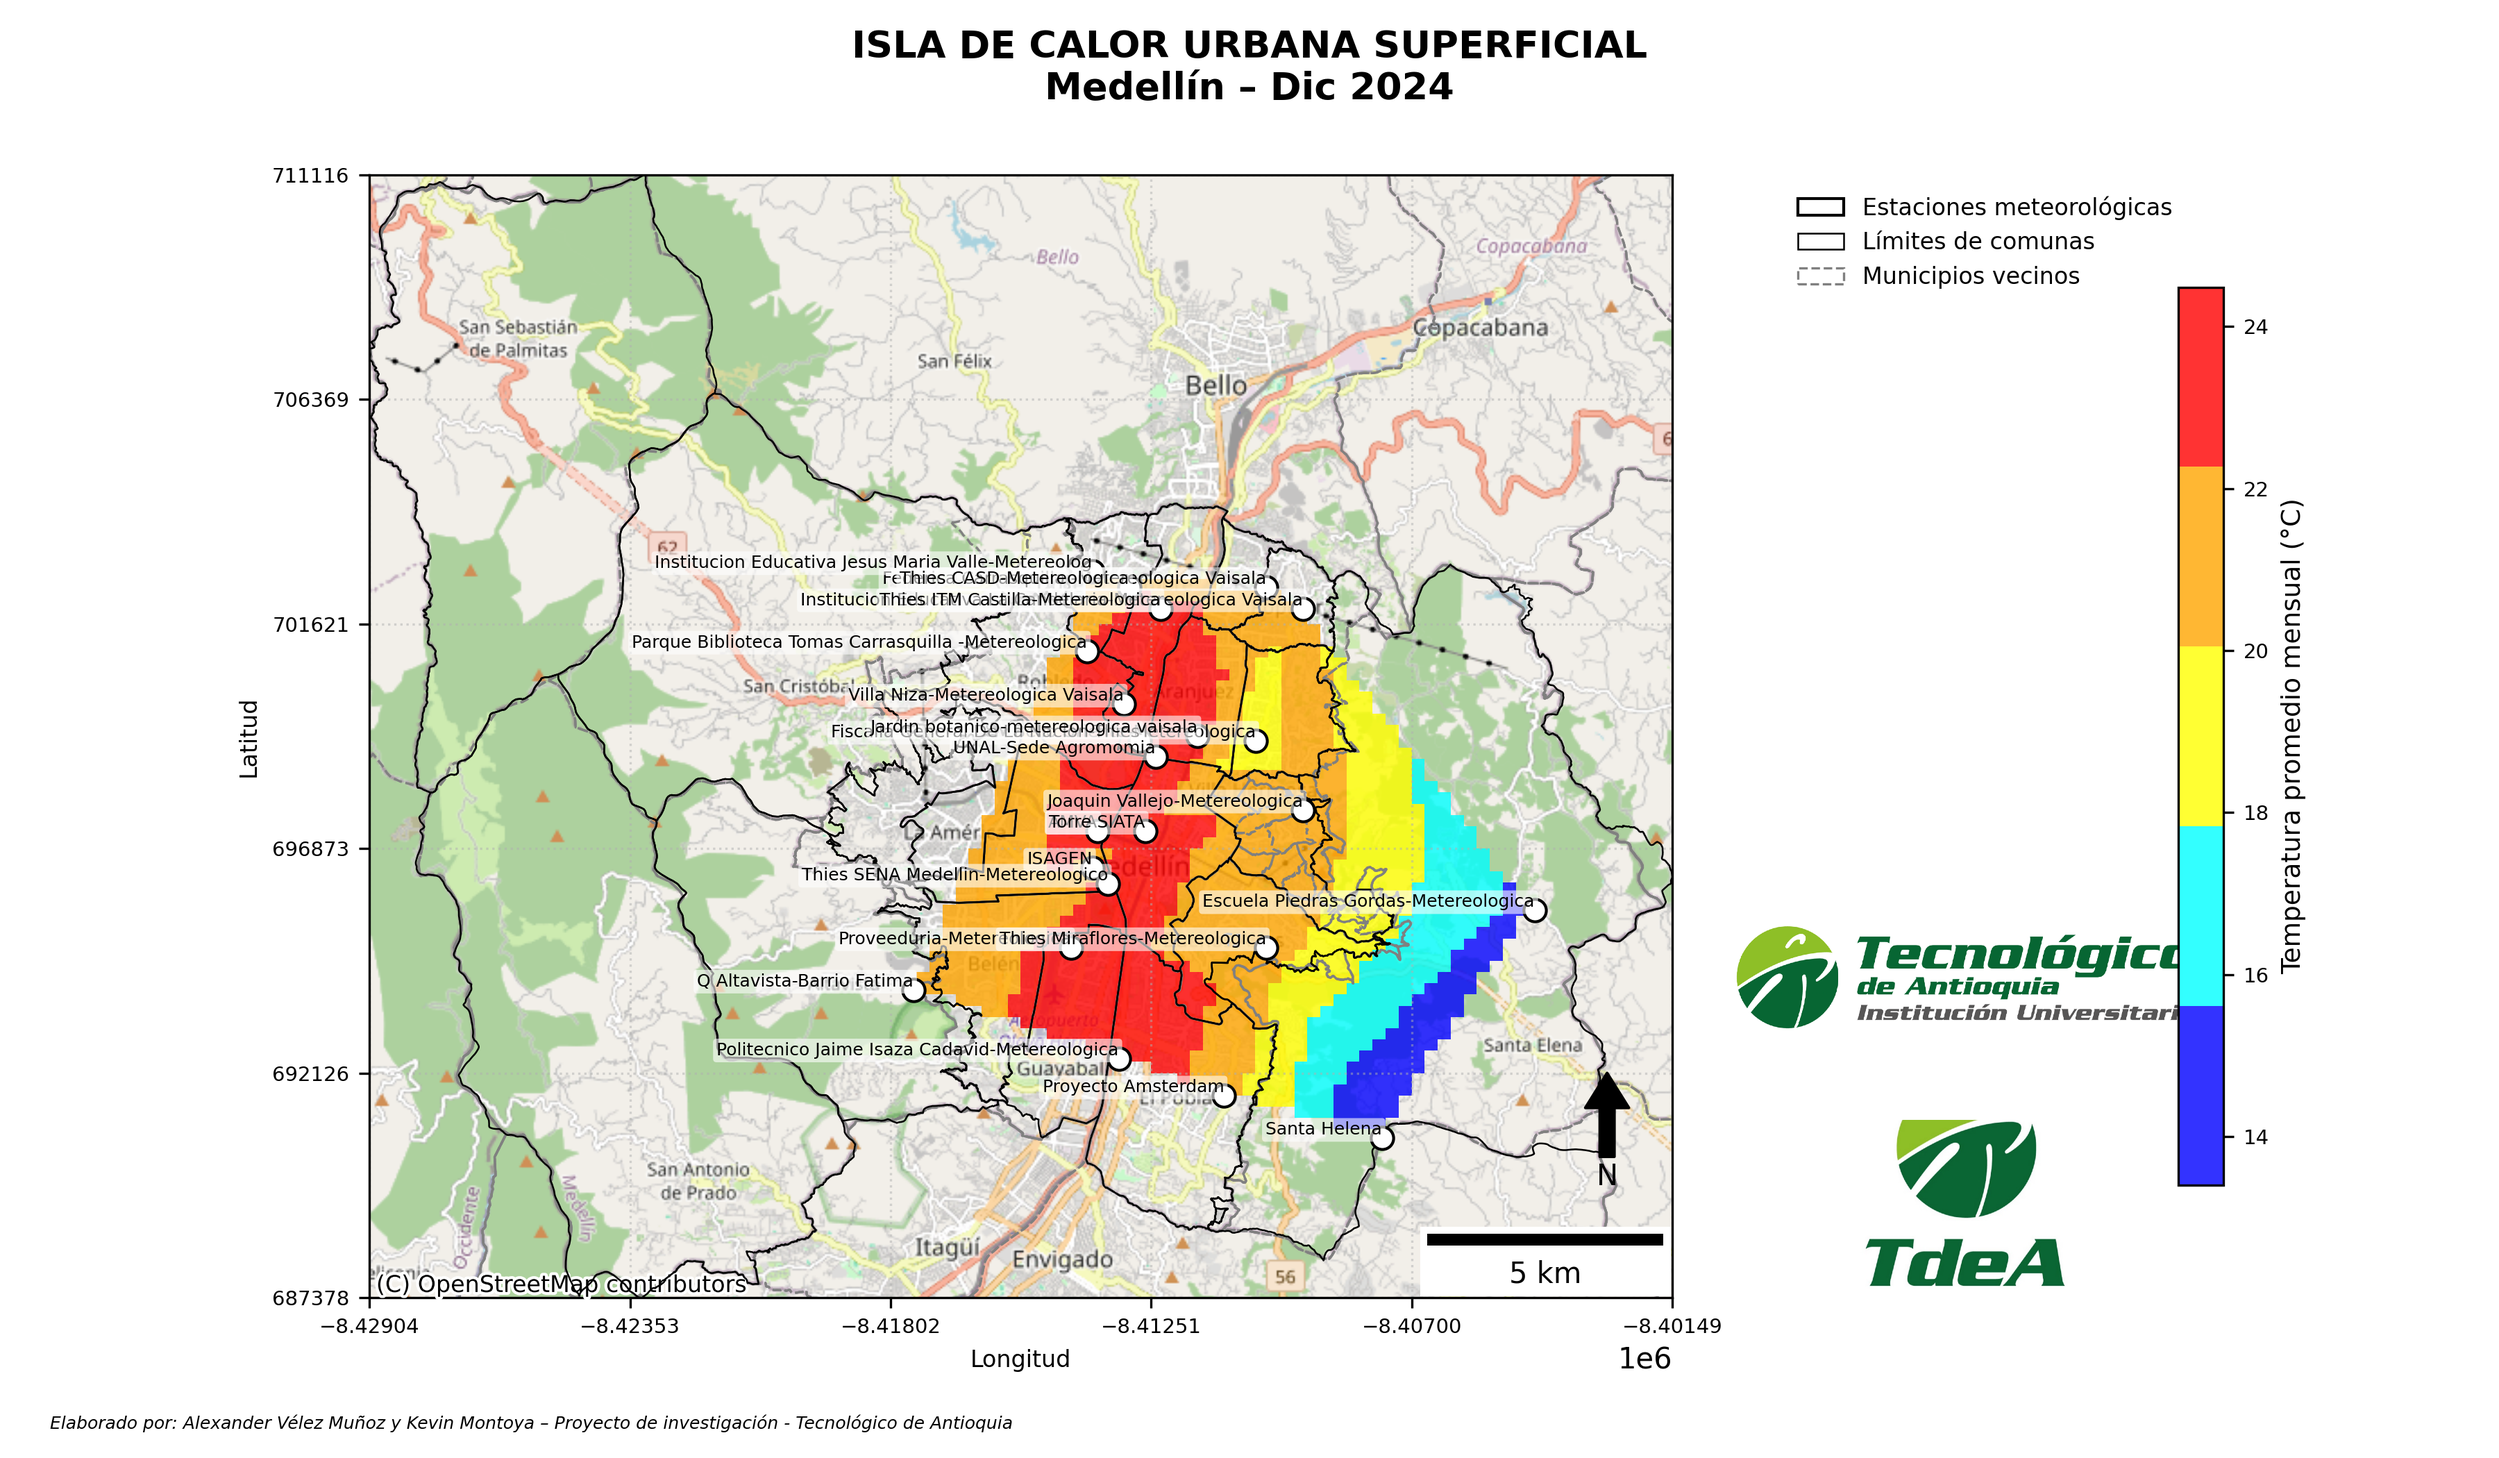
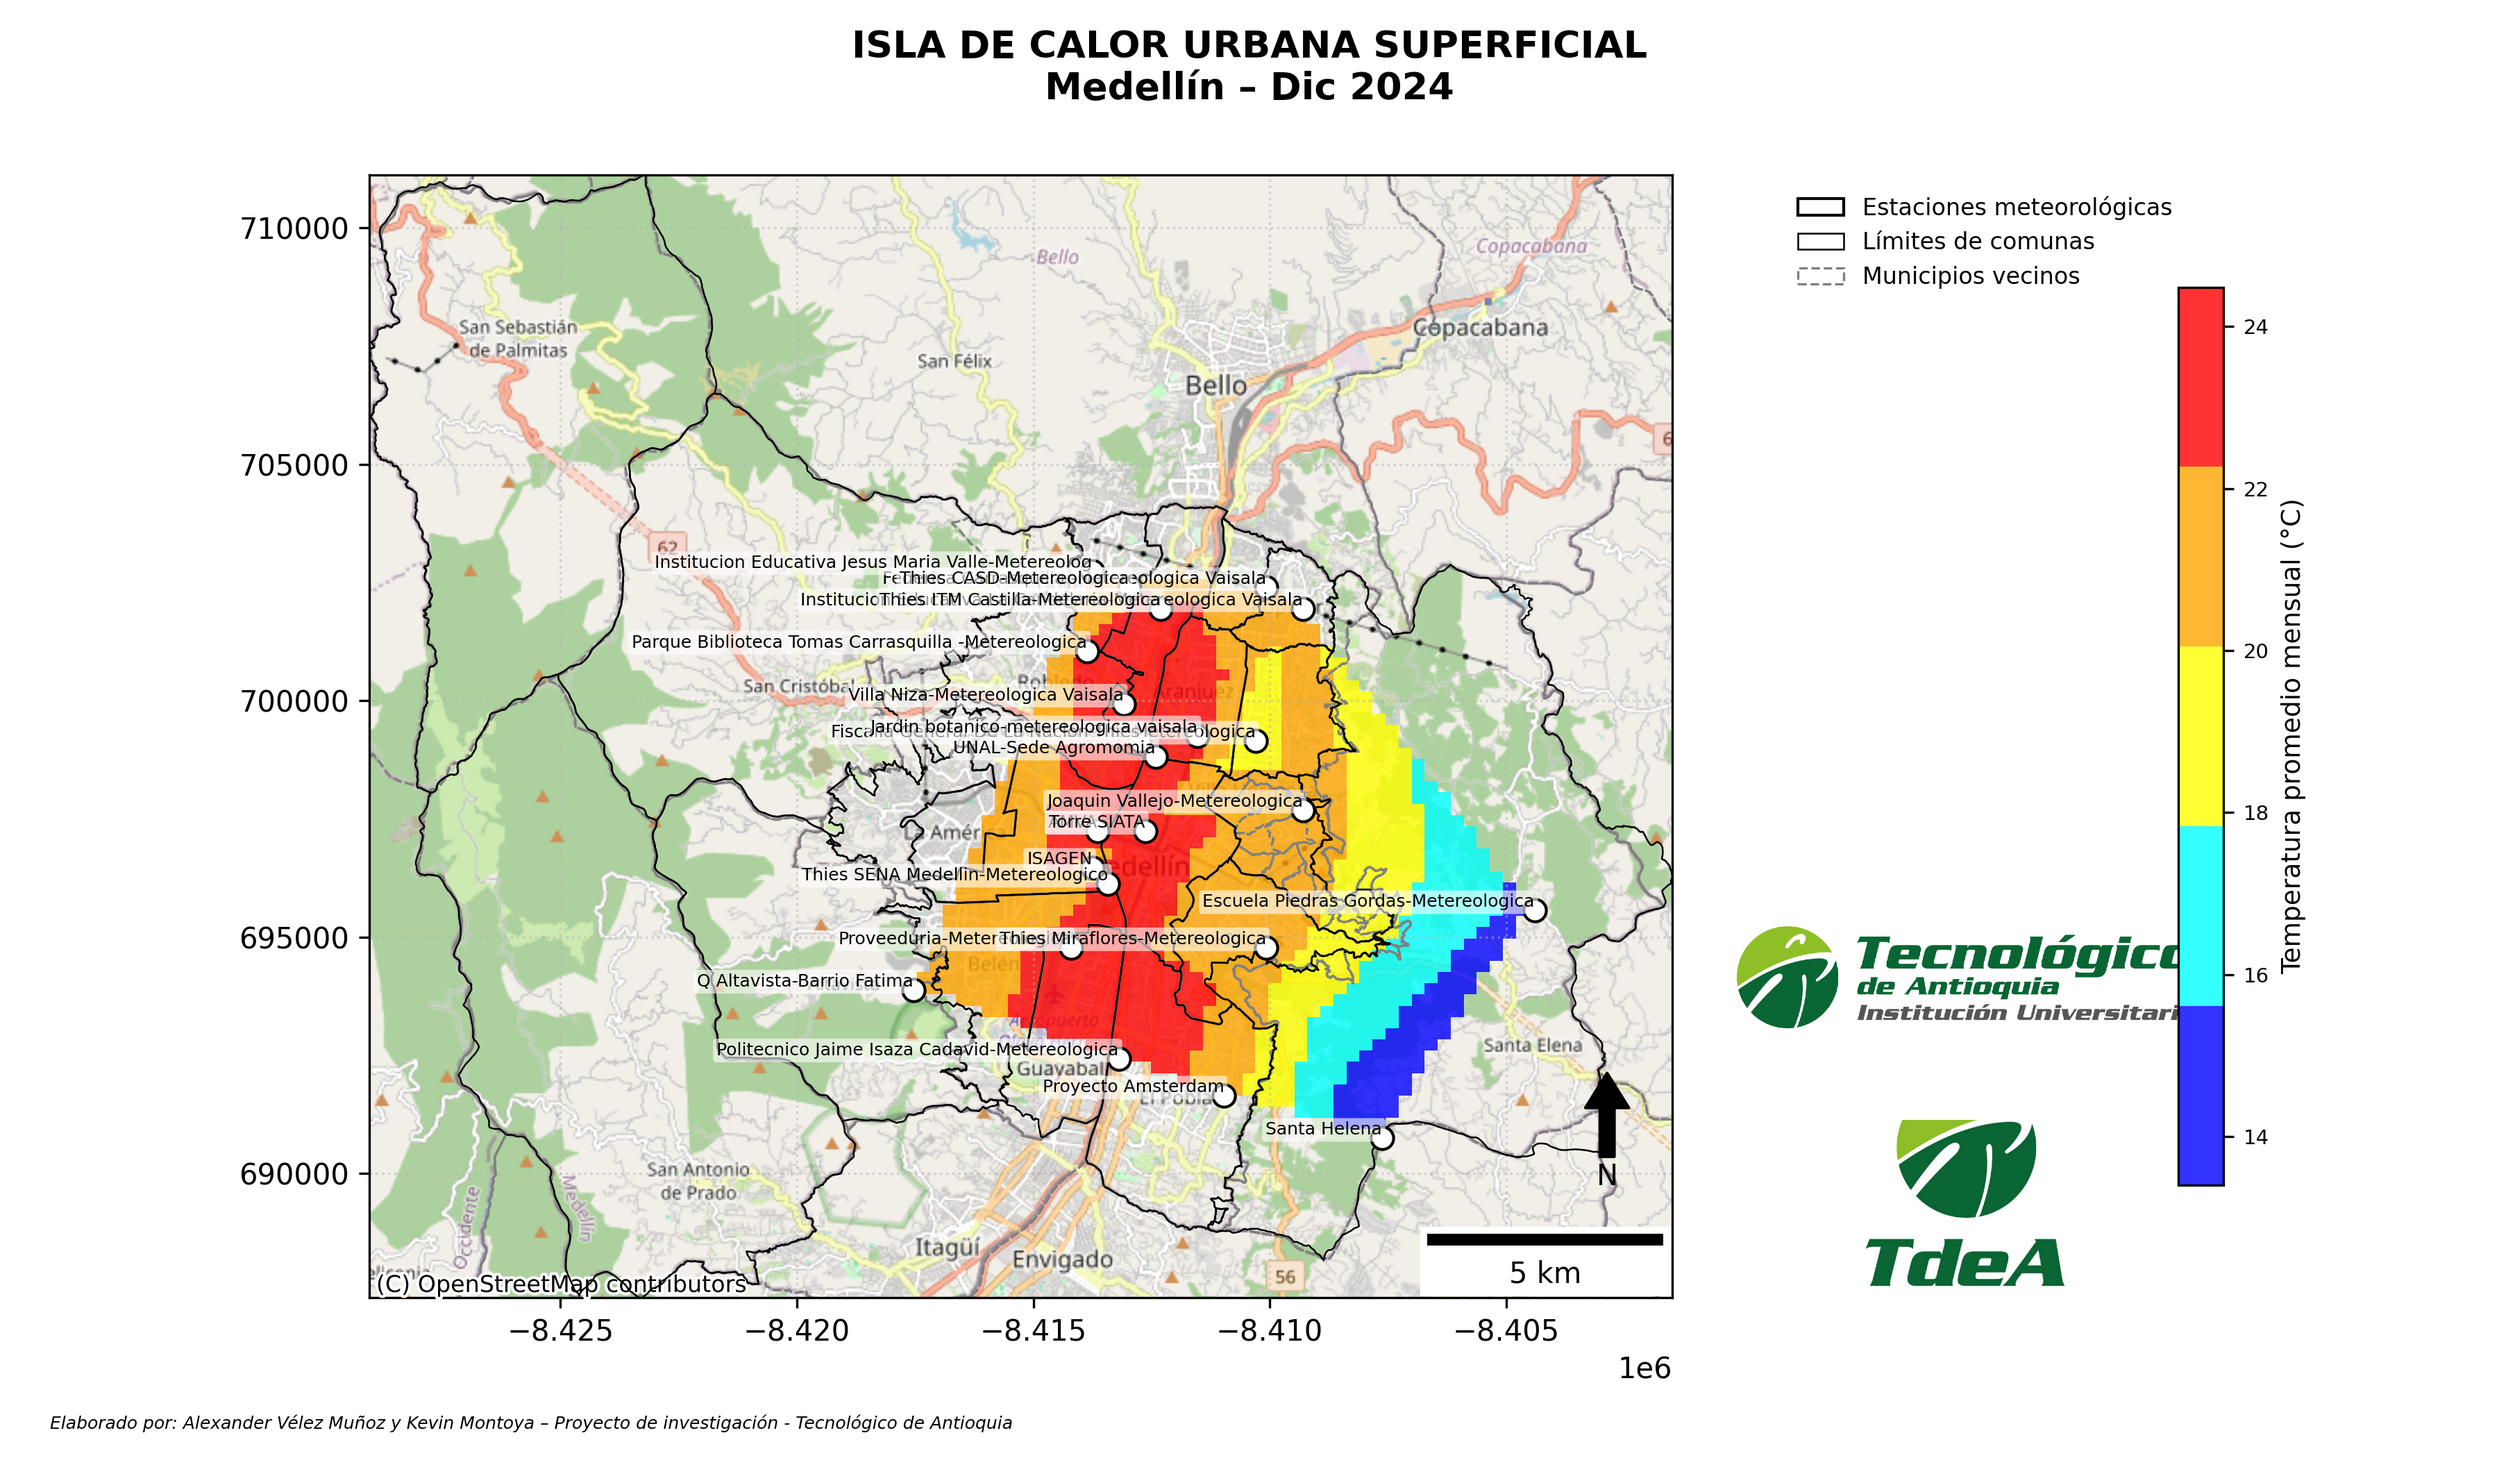
Release command para migraciones

diff --git a/clima/views.py b/clima/views.py
@@ -1,5 +1,7 @@
+# Archivo views.py corregido para Railway sin cambiar la lógica del mapa
+
 import matplotlib
-matplotlib.use('Agg')  
+matplotlib.use('Agg')
 import os
 import numpy as np
 import pandas as pd
@@ -12,20 +14,20 @@ from django.shortcuts import render
 from django.conf import settings
 from shapely.vectorized import contains
 from matplotlib.offsetbox import OffsetImage, AnnotationBbox
+import contextily as ctx
 from matplotlib.patches import Polygon, Patch
 from matplotlib.ticker import MaxNLocator
+import matplotlib.gridspec as gridspec
 
-# Fuente más limpia y científica
 plt.rcParams['font.family'] = 'DejaVu Sans'
 
-# ... [imports idénticos a los tuyos, sin cambios] ...
 
 def generar_mapa(request):
-    # === CARGA DE DATOS ===
-    excel_path   = settings.BASE_DIR / "temperaturas_rellenas_promedio.xlsx"
-    limite_path  = settings.BASE_DIR / "limite.geojson"
-    comunas_path = settings.BASE_DIR / "medellin_comunas_corregimientos.geojson"
-    vecinos_path = settings.BASE_DIR / "municipios_vecinos.geojson"
+    # === CARGA DE ARCHIVOS ===
+    excel_path   = os.path.join(settings.BASE_DIR, "temperaturas_rellenas_promedio.xlsx")
+    limite_path  = os.path.join(settings.BASE_DIR, "medellin_comunas_corregimientos.geojson")
+    comunas_path = os.path.join(settings.BASE_DIR, "medellin_comunas_corregimientos.geojson")
+    vecinos_path = os.path.join(settings.BASE_DIR, "municipios_vecinos.geojson")
 
     df = pd.read_excel(excel_path)
     gdf_limite = gpd.read_file(limite_path).to_crs(epsg=4326)
@@ -74,12 +76,10 @@ def generar_mapa(request):
     gdf_limite = gdf_limite.to_crs(epsg=3857)
     df_mes_proj = gpd.GeoDataFrame(df_mes, geometry=gpd.points_from_xy(df_mes.Long, df_mes.Lat), crs="EPSG:4326").to_crs(epsg=3857)
 
-    # === FIGURA CON GRIDSPEC ===
-    import matplotlib.gridspec as gridspec
+    # === FIGURA ===
     fig = plt.figure(figsize=(12, 7))
     gs = gridspec.GridSpec(1, 2, width_ratios=[3, 1], wspace=0.05)
 
-    # Mapa principal
     ax = fig.add_subplot(gs[0])
     extent = gdf_limite.total_bounds
 
@@ -101,6 +101,7 @@ def generar_mapa(request):
         patch = Polygon(np.array(geom.exterior.coords), facecolor='none', transform=ax.transData)
         im.set_clip_path(patch)
 
+    ctx.add_basemap(ax, crs="EPSG:3857", source=ctx.providers.OpenStreetMap.Mapnik, zorder=0)
     gdf_vecinos.boundary.plot(ax=ax, edgecolor='gray', linestyle='--', linewidth=0.8, zorder=2)
     gdf_comunas.boundary.plot(ax=ax, edgecolor='black', linewidth=0.6, zorder=3)
     df_mes_proj.plot(ax=ax, facecolor='white', edgecolor='black', markersize=60, zorder=4)
@@ -109,27 +110,20 @@ def generar_mapa(request):
         ax.text(r.geometry.x, r.geometry.y, r.Estacion, fontsize=6, ha='right', va='bottom', zorder=5,
                 bbox=dict(facecolor='white', alpha=0.6, edgecolor='none', boxstyle='round,pad=0.2'))
 
-    ax.set_xticks(np.linspace(extent[0], extent[2], 6))
-    ax.set_yticks(np.linspace(extent[1], extent[3], 6))
-    ax.tick_params(axis='both', labelsize=7)
-    ax.set_xlabel("Longitud", fontsize=8)
-    ax.set_ylabel("Latitud", fontsize=8)
     ax.grid(True, linestyle=':', alpha=0.5)
 
-    # Flecha Norte
+    # Flecha norte
     ax.annotate('N', xy=(0.95, 0.2), xytext=(0.95, 0.1),
                 arrowprops=dict(facecolor='black', width=5, headwidth=15),
                 xycoords='axes fraction', ha='center')
 
-    # Escala
-    scalebar = ScaleBar(1, units="m", location='lower right')
-    ax.add_artist(scalebar)
+    ax.add_artist(ScaleBar(1, units="m", location='lower right'))
 
     # Créditos
     fig.text(0.02, 0.02, "Elaborado por: Alexander Vélez Muñoz y Kevin Montoya – Proyecto de investigación - Tecnológico de Antioquia",
              ha='left', fontsize=6, style='italic')
 
-    # === PANEL DERECHO: LEYENDA + COLORBAR + LOGOS ===
+    # === PANEL DERECHO ===
     ax_leg = fig.add_subplot(gs[1])
     ax_leg.axis('off')
 
@@ -140,34 +134,36 @@ def generar_mapa(request):
     ]
     ax_leg.legend(handles=legend_elements, loc='upper left', fontsize=8, frameon=False)
 
+    # Colorbar
     cbar = fig.colorbar(im, ax=ax_leg, shrink=0.8, orientation='vertical', pad=0.05)
     cbar.set_label("Temperatura promedio mensual (°C)", fontsize=9)
     cbar.ax.tick_params(labelsize=7)
     cbar.locator = MaxNLocator(nbins=6)
     cbar.update_ticks()
 
-    # Logotipos
-    logos = [
-        'media/static/logos/logo_instituto.png',
-        'media/static/logos/logo_universidad.png'
+    # === LOGOS: búsqueda flexible ===
+    logo_rutas = [
+        os.path.join(settings.BASE_DIR, "media", "static", "logos", "logo_instituto.png"),
+        os.path.join(settings.BASE_DIR, "media", "static", "logos", "logo_universidad.png"),
+        os.path.join(settings.BASE_DIR, "static", "logos", "logo_instituto.png"),
+        os.path.join(settings.BASE_DIR, "static", "logos", "logo_universidad.png"),
     ]
+
     ypos = 0.1
-    for logo_path in logos:
-        try:
-            logo_img = plt.imread(logo_path)
-            imagebox = OffsetImage(logo_img, zoom=0.15)
-            ab = AnnotationBbox(imagebox, (0.5, ypos), frameon=False, xycoords='axes fraction')
-            ax_leg.add_artist(ab)
-            ypos += 0.18
-        except FileNotFoundError:
-            print(f"⚠ Logo no encontrado: {logo_path}")
+    for logo_path in logo_rutas:
+        if os.path.exists(logo_path):
+            try:
+                logo_img = plt.imread(logo_path)
+                imagebox = OffsetImage(logo_img, zoom=0.15)
+                ab = AnnotationBbox(imagebox, (0.5, ypos), frameon=False, xycoords='axes fraction')
+                ax_leg.add_artist(ab)
+                ypos += 0.18
+            except:
+                pass
 
-    # Título del mapa
     meses_name = ["Ene", "Feb", "Mar", "Abr", "May", "Jun", "Jul", "Ago", "Sep", "Oct", "Nov", "Dic"]
-    titulo = f"ISLA DE CALOR URBANA SUPERFICIAL\nMedellín – {meses_name[mes-1]} {anio}"
-    fig.suptitle(titulo, fontsize=13, weight='bold')
+    fig.suptitle(f"ISLA DE CALOR URBANA SUPERFICIAL\nMedellín – {meses_name[mes-1]} {anio}", fontsize=13, weight='bold')
 
-    # Guardar imagen
     output_path = os.path.join(settings.MEDIA_ROOT, "mapa.png")
     fig.tight_layout(rect=[0, 0.04, 1, 0.95])
     fig.savefig(output_path, dpi=300)
